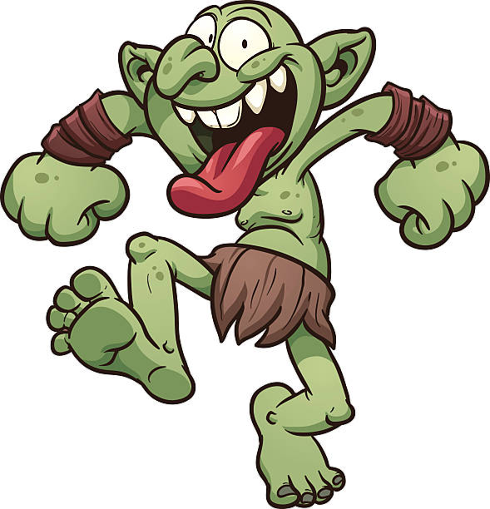
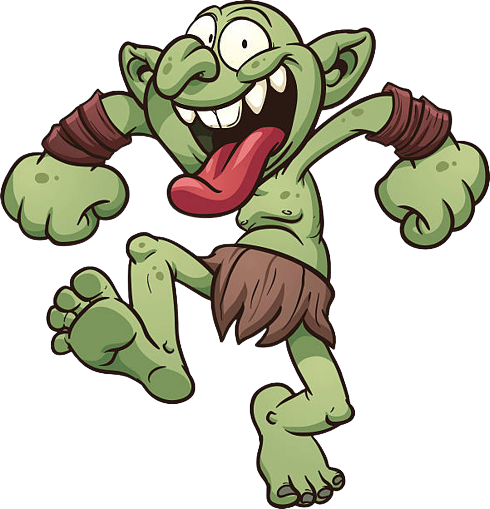
removed enemy backgrounds, enemy images now render properly

diff --git a/client/src/components/gameComponents/Fight.js b/client/src/components/gameComponents/Fight.js
@@ -1,16 +1,17 @@
 import { useEffect, useState } from "react";
 import { useHistory } from "react-router-dom";
 
-function Fight({charAttack, charImage, charHealth, setCharHealth, level}){
+function Fight({charAttack, charImage, charHealth, setCharHealth, level, goblin, ogre, dragon}){
     const [enemy, setEnemy] = useState([])
     const [display, setDisplay] = useState(null)
     const [enHealth, setEnHealth] = useState(100)
     const [toggleAtk, setAtkAnim] = useState(true)
     const [toggleEnAtk, setEnAtkAnim] = useState(0)
+    const [enemySprite, setEnemySprite] = useState([])
 
     //State variables for character sprites
     const [display2, setDisplay2] = useState(<img onAnimationEnd={()=>setAtkAnim(0)} className='fighter' src={charImage} />)
-    const [display3, setDisplay3] = useState(<img onAnimationEnd={()=>setEnAtkAnim(0)} className='enemy' src={enemy.sprite} />)
+    const [display3, setDisplay3] = useState(<img onAnimationEnd={()=>setEnAtkAnim(0)} className='enemy' src={enemySprite} />)
 
     const history = useHistory();
 
@@ -38,7 +39,6 @@ function Fight({charAttack, charImage, charHealth, setCharHealth, level}){
             setTimeout(()=>{setCharHealth(charHealth-enemy.attack)}, 550)
     }
 
-    //test
 
     //gets the data for the enemy when the fight starts
     useEffect(()=>{
@@ -58,8 +58,20 @@ function Fight({charAttack, charImage, charHealth, setCharHealth, level}){
     },[])
 
     useEffect(()=>{
-        setDisplay3(<img className={toggleEnAtk? 'enemyAtk' : 'enemy'} src={enemy.sprite} />)
-        }, [enemy])
+        if(enemy.name==="Goblin"){
+            setEnemySprite(goblin)
+        }
+        else if(enemy.name==="Ogre"){
+            setEnemySprite(ogre)
+        }
+        else{
+            setEnemySprite(dragon)
+        }
+    },[enemy])
+
+    useEffect(()=>{
+        setDisplay3(<img className={toggleEnAtk? 'enemyAtk' : 'enemy'} src={enemySprite} />)
+        }, [enemy, enemySprite])
 
     //updates the display when the health values are updated
     useEffect(()=>{
@@ -81,7 +93,7 @@ function Fight({charAttack, charImage, charHealth, setCharHealth, level}){
     //Causes enemy attack animation
     useEffect(()=>{
         if(toggleAtk!==true){
-        setDisplay3(<img onAnimationEnd={()=>setEnAtkAnim(0)} className={toggleEnAtk? 'enemyAtk' : 'enemy'} src={enemy.sprite} />) 
+        setDisplay3(<img onAnimationEnd={()=>setEnAtkAnim(0)} className={toggleEnAtk? 'enemyAtk' : 'enemy'} src={enemySprite} />) 
         }
     },[toggleEnAtk])
 

diff --git a/client/src/App.js b/client/src/App.js
@@ -15,6 +15,9 @@ import CharacterPage from './components/CharacterPage';
 import owl from "../src/images/owl.jpg";
 import crab from "../src/images/crab.jpg";
 import cat from "../src/images/cat.jpg";
+import goblin from "../src/images/goblin.png";
+import ogre from "../src/images/ogre.png";
+import dragon from "../src/images/dragon.png";
 
 
 function App() {
@@ -65,7 +68,7 @@ function App() {
             <Random myEvent = {myEvent} setEvent={setEvent} gold = {gold} setGold = {setGold} charHealth = {charHealth} setCharHealth = {setCharHealth}/>
           </Route>
           <Route path = '/fight'>
-            <Fight charAttack={charAttack} charImage={charImage} level={rowCount} setCharHealth = {setCharHealth} charHealth = {charHealth}/>
+            <Fight charAttack={charAttack} charImage={charImage} level={rowCount} setCharHealth = {setCharHealth} charHealth = {charHealth} goblin = {goblin} ogre ={ogre}  dragon = {dragon}/>
           </Route>
           <Route path = '/shop'>
             <Shop gold={gold} setGold={setGold} charHealth={charHealth} setCharHealth={setCharHealth}/>
